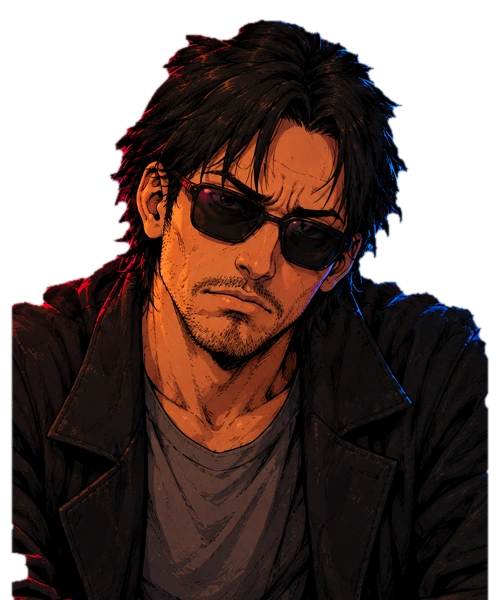
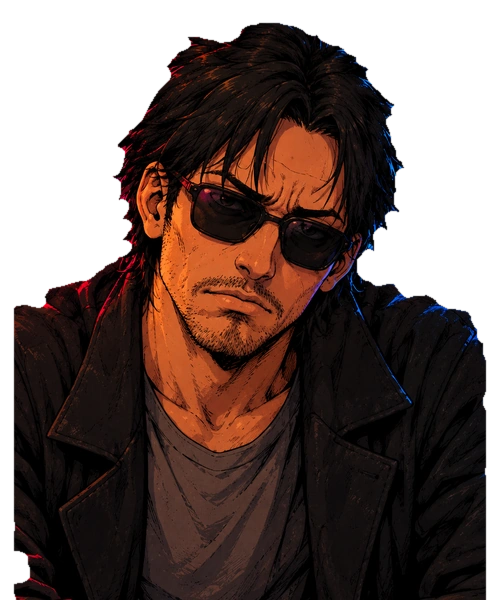
fix(synthpuck): clean opponent edges, correct far-depth scale and align HUD to letterboxed arena

diff --git a/src/synthpuck.js b/src/synthpuck.js
@@ -6,6 +6,8 @@ import {ROSTER,STAT_NAMES,getCharacter,matchConfiguration} from './roster.js';
 import {ARCADE_ORDER,nextArcadeLevel,stageIdFor} from './campaign.js';
 
 const NATIVE={w:1672,h:941};
+// Stage-normalised portrait height. Every real opponent stays behind the far rail.
+const OPPONENT_HEIGHT_NATIVE=184;
 const $=id=>document.getElementById(id);
 const panel=$('panel'),backdrop=$('backdrop'),arena=$('arena');
 const bg=backdrop.getContext('2d',{alpha:false});
@@ -26,7 +28,7 @@ const statsHtml=c=>`<div class="stats" style="--accent:${c.accent}">${STAT_NAMES
 const avatar=c=>`<img loading="eager" src="./assets/characters/${c.id}.webp" alt="Portrait de ${c.name}"/>`;
 const btn=(label,action,primary=false)=>`<button class="btn ${primary?'primary':''}" data-action="${action}" type="button">${label}</button>`;
 const statusText=()=>match?.awaitingServe?(match.server===-1?'À TOI DE SERVIR':'SERVICE ADVERSAIRE'):'PREMIER À 7';
-function setScreen(name,compact=false){screen=name;panel.className=compact?'compact':'';panel.removeAttribute('hidden');panel.setAttribute('data-screen',name);$('fighterName').hidden=name!=='playing';}
+function setScreen(name,compact=false){screen=name;panel.className=compact?'compact':'';panel.removeAttribute('hidden');panel.setAttribute('data-screen',name);$('fighterName').hidden=true;}
 function showSplash(){setScreen('splash');hud.hidden=true;touchBar.hidden=true;panel.innerHTML=`<img class="studio-image" src="./assets/ui/studio-splash-hd.avif" alt="PiperadeGames présente : logo peint avec un seul piment rouge"/>`;}
 function showMenu(){
   active=false;touchId=null;mode='arcade';currentStage='mamouda';setBackground(currentStage,false);
@@ -76,7 +78,7 @@ function beginMatch(){
   currentStage=stageIdFor(mode,opponent.id);
   setBackground(currentStage,true);createMatch();
   $('fighterName').textContent=opponent.name;
-  $('fighterName').hidden=false;hud.hidden=false;
+  $('fighterName').hidden=true;hud.hidden=false;
   $('hudMode').textContent=mode.toUpperCase();
   $('hudStage').textContent=mode==='training'?`GRID 00 · ${opponent.name}`:`${opponent.arena} · ${opponent.name}`;
   $('hudLevel').textContent=mode==='arcade'?`${String(level+1).padStart(2,'0')} / 07`:'GRID 00';
@@ -151,6 +153,10 @@ function resize(){
   // Cover-cropping hides the goals on tall phones and makes the duel unplayable.
   layout={cssW,cssH,dpr,scale:Math.min(cssW/NATIVE.w,cssH/NATIVE.h),x:0,y:0};
   layout.x=(cssW-NATIVE.w*layout.scale)/2;layout.y=(cssH-NATIVE.h*layout.scale)/2;
+  // Align the HUD with the actual letterboxed arena, never the black side bands.
+  document.documentElement.style.setProperty('--arena-side',`${layout.x}px`);
+  document.documentElement.style.setProperty('--arena-top',`${layout.y}px`);
+  document.documentElement.style.setProperty('--arena-width',`${NATIVE.w*layout.scale}px`);
   for(const c of [arena,backdrop]){c.width=Math.round(cssW*dpr);c.height=Math.round(cssH*dpr);}
   ctx.setTransform(dpr,0,0,dpr,0,0);
   bg.setTransform(dpr,0,0,dpr,0,0);
@@ -170,10 +176,15 @@ function drawOpponent(){
   const image=images.characters[opponent.id];if(!image?.complete||!image.naturalWidth)return;
   // The character sits behind the visible far rail (same fixed geometry as the puck).
   bg.save();bg.beginPath();bg.rect(0,0,layout.cssW,layout.y+385*layout.scale);bg.clip();
-  const height=260*layout.scale,width=image.width/image.height*height;
+  // Smaller at the calibrated far rail, free of the artificial neon shadow
+  // that used to make every hair edge look like a failed alpha cut-out.
+  const height=OPPONENT_HEIGHT_NATIVE*layout.scale;
+  const width=image.naturalWidth/image.naturalHeight*height;
   const x=layout.x+NATIVE.w*layout.scale/2-width/2;
-  const y=layout.y+135*layout.scale;
-  bg.shadowColor=opponent.accent;bg.shadowBlur=24*layout.scale;
+  const y=layout.y+(385-OPPONENT_HEIGHT_NATIVE)*layout.scale;
+  bg.imageSmoothingEnabled=true;
+  bg.imageSmoothingQuality='high';
+  bg.shadowBlur=0;
   bg.drawImage(image,x,y,width,height);
   bg.restore();
 }
@@ -314,6 +325,8 @@ window.__synthpuck=Object.freeze({
     spriteSizes:Object.fromEntries(Object.entries(images.sprites).map(([type,img])=>[type,[img.naturalWidth||0,img.naturalHeight||0]])),
     viewport:{width:layout.cssW,height:layout.cssH},
     uiArtReady,
+    opponentHeightNative:OPPONENT_HEIGHT_NATIVE,
+    arenaFrame:{left:layout.x,top:layout.y,width:NATIVE.w*layout.scale,height:NATIVE.h*layout.scale},
     halEyeReady:Boolean(images.halEye?.complete&&images.halEye.naturalWidth),
     halEyePosition:currentStage===HAL_STAGE_ID?{...halGaze}:null,
     aiSpeed:match?.cfg.aiSpeed??null,aiStyle:match?.cfg.aiStyle??null,

diff --git a/src/synthpuck.css b/src/synthpuck.css
@@ -194,3 +194,83 @@
  .menu.menu-hotspots .btn{top:74.4%;height:15.1%}
  #touchBar button{font-size:10px!important}
 }
+
+/* SYNTHPUCK VISUAL QA / 2026-10-30 : clean in-match HUD and alpha cutouts.
+   The original table geometry, painted arenas and interactive menu are untouched.
+   Unlike the previous HUD, these panels anchor to the visible game viewport. */
+:root{--arena-side:0px;--arena-top:0px;--arena-width:100vw}
+#hud{
+ left:calc(var(--arena-side) + 10px);
+ right:calc(var(--arena-side) + 10px);
+ top:calc(var(--arena-top) + 8px);
+ bottom:auto;
+ inset-block-end:auto;
+ gap:clamp(5px,calc(var(--arena-width) * .008),12px);
+ align-items:flex-start;
+ justify-content:space-between;
+}
+#hud>div.hud-left,#hud>div.hud-right{
+ width:clamp(85px,calc(var(--arena-width) * .19),276px);
+ height:clamp(40px,calc(var(--arena-width) * .043),62px);
+ min-height:0;
+ padding:clamp(6px,calc(var(--arena-width) * .009),14px) 18px 5px;
+ display:flex;
+ flex-direction:column;
+ justify-content:center;
+ align-items:center;
+ gap:3px;
+ text-align:center;
+ background-position:center;
+ background-size:100% 100%;
+ flex-shrink:1;
+}
+#hud small{
+ display:block;
+ flex-shrink:0;
+ color:#bdefff;
+ font:800 clamp(8px,calc(var(--arena-width) * .008),12px) Rajdhani,sans-serif;
+ line-height:1.1;
+ letter-spacing:.08em;
+ text-shadow:0 2px 3px #020610;
+}
+#hud strong{
+ display:block;
+ font:900 clamp(9px,calc(var(--arena-width) * .011),18px) 'Barlow Condensed',sans-serif;
+ line-height:1.15;
+ max-width:100%;
+ white-space:nowrap;
+ overflow:hidden;
+ text-overflow:ellipsis;
+ text-shadow:0 1px 4px #000;
+}
+#hud #score{
+ width:clamp(87px,calc(var(--arena-width) * .147),218px);
+ min-width:0;
+ height:clamp(38px,calc(var(--arena-width) * .043),63px);
+ min-height:0;
+ padding:0 10px;
+ line-height:1;
+ font-size:clamp(26px,calc(var(--arena-width) * .034),50px);
+ flex-shrink:0;
+ background-size:100% 100%;
+}
+#hud #score span{padding:0 clamp(2px,calc(var(--arena-width)*.006),8px)}
+#fighterName{display:none!important}
+/* A pause button is shown on touch devices only, without displacing the score. */
+@media(pointer:coarse){
+ #hud{gap:2px}
+ #pauseButton{
+  width:clamp(26px,calc(var(--arena-width) * .038),43px);
+  height:clamp(26px,calc(var(--arena-width) * .038),43px);
+  flex:0 0 auto;
+  margin-left:2px;
+ }
+ #hud>div.hud-left,#hud>div.hud-right{padding-left:5px;padding-right:5px}
+}
+@media(max-width:650px){
+ #hud{left:calc(var(--arena-side) + 3px);right:calc(var(--arena-side) + 3px);top:calc(var(--arena-top) + 2px)}
+ #hud>div.hud-left,#hud>div.hud-right{padding:7px 2px 2px;gap:1px}
+ #hud small{font-size:7px}
+ #hud strong{font-size:9px}
+ #hud #score{padding:0 2px;font-size:25px}
+}

diff --git a/index.html b/index.html
@@ -1,7 +1,7 @@
-<!doctype html><html lang="fr"><head><meta charset="UTF-8"/><meta name="viewport" content="width=device-width,initial-scale=1,viewport-fit=cover"/><meta name="theme-color" content="#080c18"/><title>SYNTHPUCK — PiperadeGames</title><link rel="stylesheet" href="./src/synthpuck.css?v=hd-20261030b"/></head>
+<!doctype html><html lang="fr"><head><meta charset="UTF-8"/><meta name="viewport" content="width=device-width,initial-scale=1,viewport-fit=cover"/><meta name="theme-color" content="#080c18"/><title>SYNTHPUCK — PiperadeGames</title><link rel="stylesheet" href="./src/synthpuck.css?v=hd-20261030c"/></head>
 <body><main id="app">
   <div id="scene"><canvas id="backdrop" aria-hidden="true"></canvas><canvas id="arena" aria-label="Arène de Synthpuck. Déplace la raquette avec la souris ou le doigt."></canvas><div id="fighterName" hidden></div></div>
   <div id="hud" hidden><div class="hud-left"><small id="hudMode">ARCADE</small><strong id="hudStage">SULACO · MUTE</strong></div><div id="score" aria-live="polite">0 <span>:</span> 0</div><div class="hud-right"><small id="hudLevel">01 / 07</small><strong id="hudStatus">PREMIER À 7</strong></div><button id="pauseButton" aria-label="Pause">Ⅱ</button></div>
   <div id="touchBar" hidden><button type="button" data-touch-mode="normal" class="chosen">NORMAL</button><button type="button" data-touch-mode="rigid">RIGIDE</button><button type="button" data-touch-mode="soft">AMORTI</button><button type="button" data-touch-mode="grip">SPIN</button></div>
   <section id="panel" aria-live="polite"></section>
-</main><script type="module" src="./src/synthpuck.js?v=hd-20261030b"></script></body></html>
+</main><script type="module" src="./src/synthpuck.js?v=hd-20261030c"></script></body></html>

diff --git a/README.md b/README.md
@@ -54,3 +54,11 @@ Ce jalon constitue le **jeu solo local**. Aucun matchmaking, compte, ELO, serveu
 - Aucun SVG ni rectangle vectoriel n’est ajouté à l’illustration du menu ou aux objets mobiles.
 
 - `assets/ui/studio-splash-hd.avif` : version agrandie et légèrement accentuée du **même logo PiperadeGames approuvé, avec un seul piment** ; aucun changement de composition ni ajout d'illustration. Le fichier source historique 640 × 360 est conservé comme archive.
+
+### Améliorations de présentation (30 octobre 2026)
+
+- Détourage des six adversaires repris à partir des portraits existants : alpha plein à l’intérieur et repli de 2 px du masque pour éliminer les pixels de fond dans les cheveux/épaules.
+- Suppression de l’ombre colorée artificielle autour des adversaires dans le moteur.
+- Adversaires réduits de 260 à 184 px dans le repère natif, ancrés derrière le rail éloigné à Y 385.
+- Score et plaques HUD ancrés à la zone de la scène 1672 × 941 (et non aux bandes noires du viewport), libellés intégrés dans les panneaux, nom d’adversaire redondant masqué.
+- Vérifications visuelles automatisées à 1672 × 941 et 1780 × 800, plus six captures individuelles des adversaires.
